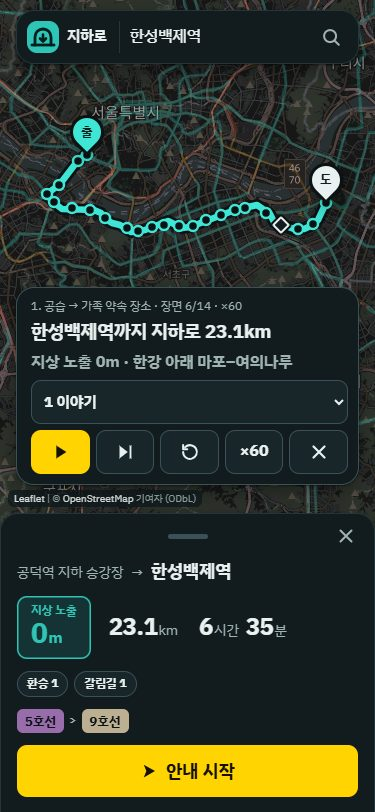
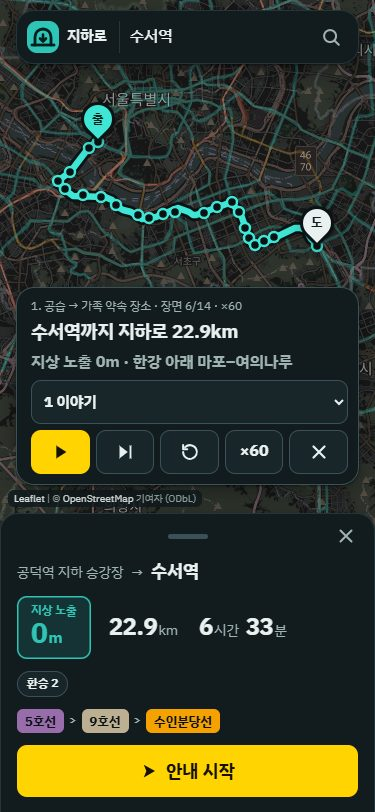
시연 목적지를 수서로: 막힌 뒤 26.7km, 갈림길 장면 대신 광나루–천호 하저터널 걷기

diff --git a/web/js/demo.js b/web/js/demo.js
@@ -2,17 +2,18 @@
    여는 법: 정보 탭의 '발표용 재생 시작' · 주소 끝 #demo (1번부터) · #demo2 · #demo3 (그 시나리오부터) · UG.demo.open(번호).
    시나리오 (장면마다 자막 한 줄):
      1. 한 사람의 이야기(공습 → 가족 약속 장소, 사용자 결정 2026-11-11):
-        평소에 한성백제역을 '가족 약속 장소'로 저장 → 공덕오거리 부근 거리에서 공습경보 → '가장 가까운 지하로'(공덕역 2번 출구, 지상 138m)
+        평소에 수서역을 '가족 약속 장소'로 저장 → 공덕오거리 부근 거리에서 공습경보 → '가장 가까운 지하로'(공덕역 2번 출구, 지상 138m)
         → 5호선 승강장에 도착해 '가족 약속 장소까지 지하로' → 한강 아래 5호선 마포–여의나루 터널에서 '앞이 막힘'
-        → 마포역으로 되돌아가 한강 아래 다른 하나(5호선 광나루–천호)로 다시 찾기 → 강동 지나 갈림길(오른쪽 갈래 = 마천지선, '통과') → 도착
+        → 마포역으로 되돌아가 한강 아래 다른 하나(5호선 광나루–천호)로 다시 찾기 → 빨리 감기로 광나루까지 → 광나루–천호 하저터널을 걸어서 건넘
+        → 도착까지 빨리 감기 → 수서역 도착(목적지는 사용자 결정 2026-11-11: 한성백제에서 수서로)
      2. 지방 도시: 부산역 → 해운대 18.5km, 전 구간 지하(지상 노출 0m), 연산·수영에서 환승 2번(빨리 감기)
      3. 장거리 피난의 한계: 서울역 → 부산역, 지상 노출 구간을 빨갛게 칠하며 빠르게 따라가기
    조작: 아래 칸(시나리오 · 재생/멈춤 · 다음 장면 · 처음부터 · 속도 · 끝내기), 키보드 Space · → · 1~3 · Esc.
    동작 원리
      - 앱의 공개 객체(UG.app, UG.guide, UG.reach, UG.layers, UG.panel, UG.saved)만 쓴다.
-       지도 따라가기는 앱 길 안내와 같은 함수(UG.app.keepCentered: 지금 위치를 보이는 곳 가운데 20% 안에)를 쓴다.
+       지도는 장면마다 한 번 부드럽게 옮기고(fitView), 부산 시나리오만 앱 길 안내와 같은 따라가기(UG.app.keepCentered)를 쓴다.
      - 길 안내의 추정 위치 = 마지막 확인 지점 + (지금 - since) × 걷는 속도. 시연은 since 를 당겨 놓아
-       빨리 걸은 것처럼 만들고, 다음 확인 지점에 닿으면 큰 단추('도착'·'환승 완료'·'통과')를 실제로 누른다.
+       빨리 걸은 것처럼 만들고, 다음 확인 지점에 닿으면 큰 단추('도착'·'환승 완료')를 실제로 누른다.
      - GPS 와 인터넷을 쓰지 않는다: 시연 동안 위치 기능을 숨기고, 지상 도보 길 찾기(walk.js)를 꺼서 직선을 쓴다.
      - 저장한 장소는 시연 동안 메모리에만 둔다(saved.js useMemory): 보는 사람이 저장해 둔 장소는 건드리지 않는다.
      - 시간은 시연 시계(멈춤·건너뛰기)로 흐른다. 속도 ×30/×60/×120 = 실제 걷는 시간보다 몇 배 빠른지.
@@ -28,24 +29,26 @@
   const CONF = {
     // 1. 이야기: 공습경보가 울린 곳(공덕오거리 부근 거리. 가장 가까운 출구가 5호선 승강장으로 이어지는 공덕역 2번 출구가 되는 자리),
     //    가족 약속 장소(meet), 마포 지나 하저터널 blockFrac 지점에서 막힘. 빨리 감기는 멈출 곳까지 한 화면에 담고 점만 움직인다
-    story: { lat: 37.5447, lon: 126.9497, label: '공덕오거리 부근', meet: '한성백제@서울', blockAfter: '마포@서울', blockFrac: 0.45 },
+    story: { lat: 37.5447, lon: 126.9497, label: '공덕오거리 부근', meet: '수서@서울', blockAfter: '마포@서울', blockFrac: 0.45 },
     busan: { from: '부산역@부산', to: '해운대@부산', label: '부산역 → 해운대', zoom: 14, xferHold: 1600 },  // 2. 지도는 줌 14로 따라감, 환승에서 잠깐 멈춤
     far: { from: '서울역@서울', to: '부산역@부산', flySec: 24 },                                 // 3. ×60 일 때 24초 동안 따라가기
-    // 장면별 배속(고른 속도 × 이 값). 1번: enter = 출구로 들어가 승강장까지, move = 터널까지 걷기, ff = 갈림길까지 빨리 감기,
-    // fork = 갈림길 앞, arrive = 도착까지. 부산은 ×60 이면 걷기 약 20초
-    boost: { enter: 0.6, move: 2.3, ff: 30, fork: 1.5, arrive: 9, busan: 16 },
+    // 장면별 배속(고른 속도 × 이 값). 1번: enter = 출구로 들어가 승강장까지, move = 첫 하저터널까지 걷기, ff = 다른 하저터널 앞까지 빨리 감기,
+    // cross = 다른 하저터널(광나루–천호 1.9km) 걷기, arrive = 도착까지 빨리 감기. 부산은 ×60 이면 걷기 약 20초
+    boost: { enter: 0.6, move: 2.3, ff: 30, cross: 5, arrive: 20, busan: 16 },
     speedKmh: 3.5                                                                               // 시연 중 걷는 속도(앱 기본값)
   };
   const SPEEDS = [30, 60, 120];
 
-  // 경로가 지나는 첫 한강 하저터널(presets.han_crossings 의 터널): { e, line, a, b(지나는 순서의 역 이름) } 또는 null
+  // 경로가 지나는 첫 한강 하저터널(presets.han_crossings 의 터널): { e, line, a, b(지나는 순서의 역 이름), sa, sb(그 역 번호) } 또는 null
   function hanCrossing(G, path) {
     const tun = new Map();
     ((G.g.presets && G.g.presets.han_crossings) || []).forEach(function (x) { if (x.s === 'tunnel') tun.set(x.e, x); });
-    const name = function (v) { const s = G.nodeStation[v]; return s >= 0 ? G.g.stations[s].name : ''; };
+    const name = function (si) { return si >= 0 ? G.g.stations[si].name : ''; };
     for (let i = 0; i < path.length; i++) {
       const x = tun.get(path[i].e);
-      if (x) return { e: x.e, line: (x.lines || [])[0] || '', a: name(path[i].u), b: name(path[i].v) };
+      if (!x) continue;
+      const sa = G.nodeStation[path[i].u], sb = G.nodeStation[path[i].v];
+      return { e: x.e, line: (x.lines || [])[0] || '', a: name(sa), b: name(sb), sa: sa, sb: sb };
     }
     return null;
   }
@@ -397,49 +400,6 @@
   // 자막 한 줄은 그대로 두고 아래 작은 줄만 지금 구간으로(빨리 감기)
   function legSub(next, gs) { const t = legText(next, gs); if (t && ui) caption(ui.cap.textContent, t); }
 
-  // 갈림길에서 갈 쪽 말: '오른쪽 갈래로' · '오른쪽 선로로' · '직진 선로로' (guide.js 와 같은 말)
-  function forkGo(side) { return side === '직진' ? '직진 선로로' : side + (/갈래$/.test(side) ? '로' : ' 선로로'); }
-  // 갈림길 그림(앱이 그리는 Y자: 들어오는 선 약 120m, 갈래마다 약 160m, 끝에 이름표)이 다 보이게 맞출 점들
-  function forkPoints(gs, cp) {
-    const s = S(), GR = UG.graph, J = UG.junctions, j = gs.plan.junctions[cp.jn], c = [j.lat, j.lon], pts = [c], ends = [];
-    const add = function (l) { l.forEach(function (q) { pts.push(q); }); };
-    UG.guide.sliceTrack(s.guideTrack, Math.max(0, cp.at - 120), cp.at).forEach(add);
-    const ahead = UG.guide.sliceTrack(s.guideTrack, cp.at, cp.at + 160);
-    ahead.forEach(add);
-    if (ahead.length) { const l = ahead[ahead.length - 1]; ends.push(l[l.length - 1]); }
-    j.alternatives.forEach(function (a) {   // 다른 갈래: 앱처럼 선로를 따라간 처음 160m
-      let line = [];
-      J.followBranch(s.G, j.node, a.edge, null, Object.assign({}, J.DEFAULTS, { walkM: 400 })).steps.forEach(function (x) {
-        const sh = GR.edgeShape(s.g, x[0], x[1]);
-        line = line.length ? line.concat(sh.slice(1)) : sh;
-      });
-      if (line.length < 2) return;
-      const cum = GR.cumulative(line), l = GR.sliceAlong(line, cum, 0, Math.min(160, cum[cum.length - 1]));
-      add(l); ends.push(l[l.length - 1]);
-    });
-    return pts;
-  }
-  // 지도에 그린 갈래 이름표(글자 상자)·갈림길 점·지금 위치가 보이는 곳 가운데에 오게 옮긴다.
-  // 지도 맞추기는 글자 상자 크기를 모르므로 그린 뒤 화면에서 재고, 안 들어가면 한 단계 줄여 다시 잰다(폰은 보이는 곳이 좁다).
-  async function centerFork() {
-    const map = S().map;
-    for (let k = 0; k < 3; k++) {
-      await until(function () { return !map._animatingZoom; });
-      await hold(reduce() ? 50 : 150);                     // 이름표를 그린 뒤에 잰다
-      const els = Array.prototype.filter.call(document.querySelectorAll('.fork-tag, .jn-dot.is-cur, .pos-est'), function (el) { return el.getClientRects().length; });
-      if (!els.length) return;
-      let l = Infinity, t = Infinity, r = -Infinity, b = -Infinity;
-      els.forEach(function (el) { const q = el.getBoundingClientRect(); l = Math.min(l, q.left); t = Math.min(t, q.top); r = Math.max(r, q.right); b = Math.max(b, q.bottom); });
-      const pad = viewPad(), m = map.getContainer().getBoundingClientRect();
-      const box = { l: m.left + pad.paddingTopLeft[0], t: m.top + pad.paddingTopLeft[1], r: m.right - pad.paddingBottomRight[0], b: m.bottom - pad.paddingBottomRight[1] };
-      // 고칠 때도 부드럽게 날아간다(flyTo): 한 단계 줄이기, 또는 가운데로 옮기기
-      if (k < 2 && (r - l > box.r - box.l || b - t > box.b - box.t)) { await flyTo(map.getCenter(), map.getZoom() - 1); continue; }
-      const dx = (l + r - box.l - box.r) / 2, dy = (t + b - box.t - box.b) / 2;
-      if (Math.abs(dx) > 2 || Math.abs(dy) > 2) await flyTo(map.containerPointToLatLng(map.getSize().divideBy(2).add([dx, dy])), map.getZoom());
-      return;
-    }
-  }
-
   /* ---------- 시연 표시(공습 고리, 막힘 표시, 장거리 따라가기 선) ---------- */
   let marks = null;
   function markLayer() {
@@ -530,7 +490,7 @@
         장면 = { cap(자막 한 줄), run(ctx) }. run 안에서 caption() 으로 숫자가 든 자막으로 바꿀 수 있다.
      ========================================================= */
   const SCENARIOS = [
-    /* 1. 한 사람의 이야기: 평소 저장 → 공습경보 → 가장 가까운 지하로 → 가족 약속 장소까지 지하로 → 하저터널 막힘 → 다른 하저터널 → 갈림길 → 도착.
+    /* 1. 한 사람의 이야기: 평소 저장 → 공습경보 → 가장 가까운 지하로 → 가족 약속 장소까지 지하로 → 하저터널 막힘 → 다른 하저터널로 다시 찾기 → 그 하저터널 건너기 → 도착.
           ctx: p(가족 약속 장소까지 처음 경로), blockPos(막힌 곳), p2(다시 찾은 경로) */
     { name: '공습 → 가족 약속 장소', short: '이야기', scenes: [
       { cap: '평소: 가족 약속 장소 저장', run: async function () {
@@ -628,29 +588,24 @@
         const alt = document.querySelector('#guide-alt-slot:not([hidden]) [data-action="alt"]');
         if (alt) { caption('대안: ' + alt.textContent, '누르지 않고 지하 우선 경로로 계속'); await flash(alt, 2200); }
       } },
-      { cap: '빨리 감기 · 갈림길까지', run: async function () {
+      { cap: '빨리 감기', run: async function (ctx) {
+        // 다른 하저터널 앞 역(광나루)까지. 화면은 그 터널 건너편 역(천호)까지 한 번에 담는다
+        const h = ctx.p2 && hanCrossing(S().G, ctx.p2.route.path);
+        if (h) caption('빨리 감기 · ' + PN().yeok(h.a) + '까지');
         await walkGuide({ boost: CONF.boost.ff, camera: 'fixed', fast: true, onLeg: legSub,
-          until: function (next) { return next.kind === 'junction' && next.jn != null; } });
+          until: function (next) { return !!h && next.si === h.sb; } });
       } },
-      { cap: '갈림길 · 갈 갈래로', run: async function () {
+      { cap: '한강 아래 하저터널', run: async function (ctx) {
+        // 다른 하저터널을 걸어서 건넌다(첫 하저터널 장면과 같은 모습: 그 구간을 한 화면에 담고 점만 움직임)
         const g = guideView(), gs = g && g.state();
         if (!gs) return;
-        const p = UG.guide.progress(gs.cps, gs.cur, gs.plan.view.total_m), cp = p.next;
-        if (!cp || cp.kind !== 'junction' || cp.jn == null) return;
-        const j = gs.plan.junctions[cp.jn], a = j.alternatives[0], toward = function (b) { return b.toward ? b.toward + ' 방면' : b.name; };
-        caption('갈림길 · ' + forkGo(j.chosen.side), toward(j.chosen) + (a ? ' · ' + a.side + (/갈래$/.test(a.side) ? '는 ' : '은 ') + toward(a) : ''));
-        S().guideFollow = false;
-        // 1) 지금 위치와 갈림길이 한 화면에 보이게 날아가 걷다가, 2) 갈림길 약 60m 앞에서 Y자 갈래(이름표 포함)를 크게 보며 마저 걷는다
-        const pos = S().guidePos, near = Math.max(0, p.toNext_m - 60);
-        await fitView((pos ? [pos] : []).concat([[j.lat, j.lon]]), 17);
-        await walk(near, CONF.boost.fork, setWalked);
-        setWalked(near, true);
-        await fitView(forkPoints(gs, cp), 18);
-        await centerFork();
-        await walk(p.toNext_m - near, CONF.boost.fork, function (m) { setWalked(near + m); });
+        const h = ctx.p2 && hanCrossing(S().G, ctx.p2.route.path);
+        if (h) caption('한강 아래 하저터널: ' + h.a + ' → ' + h.b);
+        const p = UG.guide.progress(gs.cps, gs.cur, gs.plan.view.total_m);
+        await fitView(legPoints(gs, p), 16);
+        await walk(p.toNext_m, CONF.boost.cross, setWalked);
         setWalked(p.toNext_m, true);
-        await hold(900);                                     // 안내 카드의 큰 Y자와 지도의 갈래 이름표
-        await press('guide-arrive', 1400);                   // 큰 단추 '통과'
+        await press('guide-arrive', 450);
       } },
       { cap: '도착까지 빨리 감기', run: async function () {
         await walkGuide({ boost: CONF.boost.arrive, camera: 'fixed', fast: true, onLeg: legSub });

diff --git a/scripts/check_alt.js b/scripts/check_alt.js
@@ -63,7 +63,7 @@ for (const [a, b, why] of [['부산역@부산', '서면@부산', '이미 짧고 
 }
 
 /* ---------- 앞이 막혀 다시 찾은 경로(시연 1번 이야기와 같은 막기: 공덕역 승강장에서 가족 약속 장소로) ---------- */
-console.log('\n[앞이 막힘 뒤] 공덕 → 한성백제, 5호선 마포–여의나루 하저터널 막힘 (참고)');
+console.log('\n[앞이 막힘 뒤] 공덕 → ' + UG.demo.CONF.story.meet.replace(/@.*/, '') + ', 5호선 마포–여의나루 하저터널 막힘 (참고)');
 {
   const M = UG.demo.CONF.story, from = '공덕@서울', blocked = new Set();
   const p = { from: st(from), to: st(M.meet), route: RT.findRoute(G, st(from), st(M.meet)) };

diff --git a/docs/plan.md b/docs/plan.md
@@ -60,8 +60,9 @@ COM's 해커톤 2026 · 주제: 전쟁 · 혼자 참가 · 제출 마감 2026-11
 - 지상으로 나가는 곳(사용자 결정 2026-11-10): 역 출구뿐 아니라 터널 출입구(선로가 지상으로 나오는 곳), 차량기지, 터널 중간 비상 출구·수직구도 출구 후보로 쓴다. 전시에는 막히면 뚫고 간다고 보고 출입 통제는 따지지 않는다. 안내 중 "여기서 나가기"로 가까운 출구 후보를 보여 준다.
 - 출발·도착 연결(사용자 결정 2026-11-11): 역 출구뿐 아니라 터널 출입구와 차량기지도 출발·도착 연결 후보로 쓴다. '가장 가까운 지하로'는 역만 쓴다.
 - 대안 카드(사용자 결정 2026-11-11): 기본 경로는 지하 우선. 지상을 조금 허용한 경로(지상 1m = 지하 약 15m)가 시간 20% 이상 또는 30분 이상 빠르고 추가 지상 거리가 2km 이하일 때만 "지상 700m 걸으면 14km 짧아요" 한 줄을 보여 주고, 누르면 그 경로로 바꾼다. 지도에는 고르지 않은 경로를 흐린 선으로 보여 준다.
-- 시연 도구(사용자 결정 2026-11-11): `#demo` 또는 정보 탭에서 여는 재생 모드. 시나리오 3개(`#demo`·`#demo2`·`#demo3`, 키보드 1~3): ① 한 사람의 이야기: 평소 한성백제역을 '가족 약속 장소'로 저장 → 공덕오거리 부근 공습경보 → 가장 가까운 지하로(공덕역 2번 출구, 지상 138m, 5호선 승강장) → 가족 약속 장소까지 지하로 23.1km·지상 노출 0m → 한강 하저터널(5호선 마포–여의나루) 막힘 → 마포역으로 834m 되돌아가 한강 아래 다른 하나(광나루–천호)로 재탐색 23.8km·지상 노출 0m → 강동 지나 갈림길(오른쪽 갈래 마천지선, 둔촌동 방면) '통과' → 도착(지하에 들어간 뒤 지상 노출 0m). 장면 14개, ×60에서 약 92~95초. 화면 전환(2026-11-11 사용자 지적 '매끄럽지 않음'): 장면마다 지도 움직임은 한 번(flyTo 0.6~1.5초, 앱의 자동 맞추기·따라가기는 시연 동안 쉼), 시트·시연 칸이 자리 잡은 뒤에 지도를 옮김, 추정 위치 점은 프레임마다 옮김, 빨리 감기는 한 화면에 담고 점만 움직임, 시트·안내 카드·자막은 0.2초 흐렸다가 나타남, 움직임 줄이기면 바로 옮김 ② 지방 도시 전 구간 지하(부산역→해운대 18.5km, 연산·수영 환승 2번. 2026-11-11 서면→부산역 5.3km에서 바꿈) ③ 장거리 피난의 한계(서울역→부산역, 지상 노출 최소화). 자막은 장면당 한 줄, GPS·인터넷 없이 동작(배경 지도 타일만 받음). 시연 중 저장한 장소는 메모리에만 둔다.
+- 시연 도구(사용자 결정 2026-11-11): `#demo` 또는 정보 탭에서 여는 재생 모드. 시나리오 3개(`#demo`·`#demo2`·`#demo3`, 키보드 1~3): ① 한 사람의 이야기: 평소 수서역을 '가족 약속 장소'로 저장 → 공덕오거리 부근 공습경보 → 가장 가까운 지하로(공덕역 2번 출구, 지상 138m, 5호선 승강장) → 가족 약속 장소까지 지하로 22.9km·지상 노출 0m → 한강 하저터널(5호선 마포–여의나루) 막힘 → 마포역으로 834m 되돌아가 한강 아래 다른 하나(광나루–천호)로 재탐색 26.7km·지상 노출 0m(마포에서 처음 경로보다 4.4km 더, 5호선 하저터널 두 곳을 다 막으면 지상 721m) → 광나루–천호 하저터널 1.9km를 걸어서 건넘 → 수서역 도착(지하에 들어간 뒤 지상 노출 0m). 장면 14개, ×60에서 약 90~93초. 화면 전환(2026-11-11 사용자 지적 '매끄럽지 않음'): 장면마다 지도 움직임은 한 번(flyTo 0.6~1.5초, 앱의 자동 맞추기·따라가기는 시연 동안 쉼), 시트·시연 칸이 자리 잡은 뒤에 지도를 옮김, 추정 위치 점은 프레임마다 옮김, 빨리 감기는 한 화면에 담고 점만 움직임, 시트·안내 카드·자막은 0.2초 흐렸다가 나타남, 움직임 줄이기면 바로 옮김 ② 지방 도시 전 구간 지하(부산역→해운대 18.5km, 연산·수영 환승 2번. 2026-11-11 서면→부산역 5.3km에서 바꿈) ③ 장거리 피난의 한계(서울역→부산역, 지상 노출 최소화). 자막은 장면당 한 줄, GPS·인터넷 없이 동작(배경 지도 타일만 받음). 시연 중 저장한 장소는 메모리에만 둔다.
 - 시연 연출(사용자 결정 2026-11-11): 한 사람의 이야기 하나로 묶는다. 기능을 하나씩 보여 주던 시나리오 ①(시청 앞 공습 → 4시간 도달 범위)과 ②(공덕→한성백제 막힘)를 합쳐 공습경보부터 가족 약속 장소 도착까지 한 흐름으로 재생하고, 한강을 지하로만 건너는 곳이 5호선 하저터널 두 곳뿐이라는 분석 결과를 막힘 → 다른 하나로 다시 찾기 장면에서 보여 준다. 4시간 도달 범위 장면은 뺐다.
+- 시연 목적지 수서로(사용자 결정 2026-11-11): 한성백제는 낯설고 막힌 뒤 거리 차이가 작음(23.1km → 23.8km). 수서(SRT 역)는 처음 22.9km, 막힌 뒤 26.7km(마포에서 4.4km 더). 다시 찾은 길에 갈림길 체크포인트가 없어 갈림길 장면을 빼고, 그 자리에 광나루–천호 하저터널을 걸어서 건너는 장면을 넣었다.
 - 피난처 표시(깊은 지하역 강조, 민방위 대피소, 비상급수시설, 화학 공격 안내 문구)는 넣지 않는다(사용자 결정 2026-11-10).
 - 도로 터널·지하도로와 민방위 대피소는 앱에 넣지 않는다(사용자 결정 2026-11-10). 조사 결과는 발표의 검토한 확장안으로만 쓴다(docs/roads-shelters-check.md).
 - 갈림길 안내(사용자 결정 2026-11-10): 역 사이 선로가 갈라지는 곳을 체크포인트로 넣고 왼쪽·오른쪽·직진과 갈라지는 쪽(다른 노선, 차량기지)을 알려 준다. 건넘선 등 같은 방향으로 이어지는 곳은 안내하지 않는다.

diff --git a/docs/graph-format.md b/docs/graph-format.md
@@ -379,7 +379,7 @@ function decodePolyline(s) {
   - 터널 출입구·차량기지(2026-11-11, `router.egressConns`): `egress.json`(19절)을 받았으면 1.5km 안의 가까운 3곳도 같은 방식으로 잇는다. 터널 출입구는 묶은 출입구 노드(`nodes`) 하나하나, 차량기지는 나가는 곳(`lat`·`lon`)까지 걷고 기지 안을 대표 노드(`node`)까지 더 걷는다(직선 × 1.3, 지상 노출). 어디로 들어갈지는 다른 후보와 같이 비용으로 고른다. 수직구·비상 출구와 '가장 가까운 지하로'에는 쓰지 않는다. 단계 글: '○○ 터널 입구로 들어가기' · '○○ 터널 출입구로 나가기' · '○○차량기지로 들어가기/나가기'(egress 이름). `egress.json`을 아직 안 받았으면 역 출구로 먼저 잇고 받기 시작해, 받은 뒤 경로가 달라지면 다시 찾는다(길 안내 중에는 그대로). `egress.json`을 주지 않으면 예전과 같다(`check_router.js`의 `route.py` 비교).
 - 대안 경로(2026-11-11, `router.alternative`): 기본 탐색(지상 1000)은 그대로 두고, 지상 가중치 `ALT.exposedW` = 15로 한 번 더 찾는다. 다른 경로이고, 걷는 시간이 20% 이상 또는 30분 이상 줄고, 늘어나는 지상 노출이 2km 이하일 때만 결과 카드에 한 줄('지상 1.2km 걸으면 22km 짧아요 · 약 6시간 단축')을 보이고, 누르면 그 경로로 바꾼다(그 뒤에는 '지하 우선 경로로'). 고르지 않은 경로는 지도에 가늘고 옅은 선. 앞이 막혀 다시 찾은 길 안내에서는 첫 확인 지점 전까지 카드에 같은 한 줄이 보이고, 누르면 바꾼 경로로 안내를 이어 간다. 가장 가까운 지하로·여기서 나가기·바로 걷기에는 두지 않는다.
 - 길 안내 따라가기(2026-11-11, `app.keepCentered`): 지금 위치(GPS 또는 추정)가 지도에서 보이는 곳(위 카드·아래 단추를 뺀 곳)의 가운데 칸(가로·세로 20%)을 벗어나면 가운데로 0.6초 동안 옮긴다(움직이는 중이면 그만큼 앞을 겨냥, 움직임 줄이기면 바로). 단계가 바뀌면 지금 위치를 가운데에 두고 다음 확인 지점까지 보이게 맞춘다. 지도를 끌거나 키보드 화살표로 옮기면 멈추고 '현재 위치로'로 다시 따라간다. 시연(`demo.js`)도 같은 함수를 쓴다.
-- 검증(2026-11-11 추가): `node scripts\check_alt.js` — 대안 경로(기본 탐색 그대로, 옥수→압구정 대안 있음, 부산역→서면·서울역→강남·노량진→용산 없음, 시연 1번(이야기) 막힘 뒤 대안 참고). `node scripts\check_connect.js` — 9호선 개화 부근 터널 출입구 옆에서 출발하면 터널 입구로(지상 노출 2,778m → 68m), 도착이면 출입구로 나가기, 방화차량사업소 옆은 기지로(3,123m → 1,455m), 시청 앞은 역 출구 그대로, `egress.json`이 없으면 예전과 같음.
+- 검증(2026-11-11 추가): `node scripts\check_alt.js` — 대안 경로(기본 탐색 그대로, 옥수→압구정 대안 있음, 부산역→서면·서울역→강남·노량진→용산 없음, 시연 1번(이야기, 공덕→수서) 막힘 뒤 대안 참고). `node scripts\check_connect.js` — 9호선 개화 부근 터널 출입구 옆에서 출발하면 터널 입구로(지상 노출 2,778m → 68m), 도착이면 출입구로 나가기, 방화차량사업소 옆은 기지로(3,123m → 1,455m), 시청 앞은 역 출구 그대로, `egress.json`이 없으면 예전과 같음.
 - 지상 걷기 간선(웹에서만): 지하로 갈 길이 없을 때(앞이 막힘, 끊긴 노선)의 대비책. 1.5km 안의 다른 역끼리 가장 가까운 출입구(없으면 허브) 사이를 직선 × 1.3 길이, 구조 `ground`, 종류 `surface`로 잇는다(2026-11-10 그래프에서 1,704개). `graph.json` 간선 뒤에 붙여 원래 간선 번호는 그대로고, 기본 탐색(= `route.py`)에서는 쓰지 않는다. 기본 탐색이 실패할 때만 `findRoute(..., {surface: true})`로 다시 찾고, 안내에는 '지상 걷기' 단계(`type: 'surface'`)로 나온다.
 - 앞이 막힘: 마지막으로 '도착'을 누른 체크포인트와 다음 체크포인트 사이의 선로 간선, 그리고 그 선 모양에서 40m 안에 나란히 있는 선로(같은 터널의 반대 방향)를 막는다. 들어갈·나갈 출구가 막히면 그 출입구 간선만 막는다. 되돌아갈 거리는 마지막 확인 뒤 걸은 시간 × 걷는 속도(다음 체크포인트까지를 넘지 않게)로 추정한다.
 - 승강장 깊이: 역 시트의 '이 역 정보'에서 `stations[].depth`(6.1절, 서울교통공사 1~8호선 역만)를 승강장 줄마다 보여 준다(지하 층이면 층·승강장·선로 깊이, 고가·지상이면 그 글자만). 없는 역은 깊이를 숨긴다.

diff --git a/README.md b/README.md
@@ -46,7 +46,7 @@ COM's 해커톤 2026 · 주제: 전쟁 · 혼자 참가
 
 시연 시나리오:
 
-1. 한 사람의 이야기(기본 속도 ×60에서 약 92~95초, 장면 14개): 평소에 한성백제역을 '가족 약속 장소'로 저장 → 공덕오거리 부근 거리에서 공습경보 → '가장 가까운 지하로'로 공덕역 2번 출구(지상 138m) → 5호선 승강장에서 '가족 약속 장소까지 지하로'(23.1km, 지상 노출 0m) → 한강 아래 5호선 마포–여의나루 터널에서 '앞이 막힘' → 마포역으로 834m 되돌아가 한강 아래 다른 하나(5호선 광나루–천호)로 다시 찾기(23.8km, 지상 노출 0m) → 강동 지나 갈림길(오른쪽 갈래, 둔촌동 방면) '통과' → 도착(지하에 들어간 뒤 지상 노출 0m). 장면 사진: `docs/screens/story-01-save.jpg` ~ `story-14-arrive.jpg`(375×812 어두운 화면)
+1. 한 사람의 이야기(기본 속도 ×60에서 약 90~93초, 장면 14개): 평소에 수서역을 '가족 약속 장소'로 저장 → 공덕오거리 부근 거리에서 공습경보 → '가장 가까운 지하로'로 공덕역 2번 출구(지상 138m) → 5호선 승강장에서 '가족 약속 장소까지 지하로'(22.9km, 지상 노출 0m) → 한강 아래 5호선 마포–여의나루 터널에서 '앞이 막힘' → 마포역으로 834m 되돌아가 한강 아래 다른 하나(5호선 광나루–천호)로 다시 찾기(26.7km, 지상 노출 0m. 마포에서 처음 경로보다 4.4km 더) → 광나루–천호 하저터널(1.9km)을 걸어서 건넘 → 수서역 도착(지하에 들어간 뒤 지상 노출 0m). 장면 사진: `docs/screens/story-01-save.jpg` ~ `story-14-arrive.jpg`(375×812 어두운 화면, 12번은 `story-12-tunnel-b.jpg`)
 2. 부산역에서 해운대까지 18.5km 전 구간 지하, 환승 2번
 3. 장거리 피난의 한계(서울역에서 부산역)
 
@@ -130,7 +130,7 @@ python -I scripts\merge_ways.py data\raw\region_nodes.json,data\raw\region_nodes
 | `node scripts\check_walk.js` | 지상 도보 구간을 실제 길로 바꾸는 계산과 위치 추정 선 |
 | `node scripts\check_pdr.js` | 걸음 세기·보폭 보정을 합성 가속도 신호로 |
 | `node scripts\check_load.js` | 첫 로딩에서 나눠 하는 일이 한 번에 한 것과 같은지 |
-| `node scripts\check_demo.js` | 시연 시나리오 3개가 재생할 경로·단계의 핵심 사실(이야기: 가장 가까운 출구, 하저터널 두 곳, 막힘 뒤 다시 찾기, 갈림길, 도착) |
+| `node scripts\check_demo.js` | 시연 시나리오 3개가 재생할 경로·단계의 핵심 사실(이야기: 가장 가까운 출구, 하저터널 두 곳, 막힘 뒤 다시 찾기, 다른 하저터널 건너기, 도착) |
 | `node scripts\check_offline.js` | 설치 설정(manifest·아이콘), 서비스 워커의 판 표시·저장 목록·요청 종류, 등록 조건 |
 | `python -I scripts\check_extra.py` | 빠른 환승 항목이 실제 경로의 환승과 맞는지 |
 

diff --git a/docs/design.md b/docs/design.md
@@ -93,5 +93,5 @@
 2026-11-10 3차(갈림길, 여기서 나가기, 글 줄이기, 정보 탭): `v3-dark-01`~`06`, `v3-light-01`(375×812), 글 줄이기 전후 `v3-before-*`·`v3-after-*`(서울역 → 강남 단계 목록·환승 카드, 전: 분석 탭). 헤드리스 Chrome(위치 권한 없음 = 추정 위치)으로 찍었다.
 2026-11-11 시연 2차(`demo2-*`): 1280×720·375×812 어두운 화면 시연 장면(`demo2-wide-*`·`demo2-phone-*`: 공습 도달 범위 한 번에, 막힘 뒤 대안 한 줄, 부산역→해운대, 따라가기), 정보 탭 시연 단추(`demo2-info-dark`·`demo2-info-light`, 375×812), 대안 경로 카드(`demo2-alt-card`, 옥수→압구정, 375×812 어두운). 헤드리스 Chrome.
 2026-11-11 4차(첫 로딩, 환승·출구 지하도 그림): `v4-dark-01-first-load`(철도망을 처음 그린 직후, 보이는 곳만), `v4-dark-02-exit-leg`(양재역 6번 출구 근처 → 강남: 출구 지하도 선), `v4-dark-03-xfer-passage`(종각 → 안국, 종로3가 1→3호선 지하도 선), `v4-dark-04-xfer-dashed`(을지로입구 → 종각, 시청 2→1호선: 모양 자료 없음 = 옅은 점선), `v4-dark-05-station-exit`(양재역 시트에서 6번 출구를 누름), `v4-dark-06-guide-xfer`(길 안내의 종로3가 환승). 375×812 어두운 화면, 헤드리스 Chrome, 배경 타일 막음(간이 배경 지도), 위치 권한 없음.
-2026-11-11 시연 이야기(`story-01-save` ~ `story-14-arrive`): 시연 1번(공습경보 → 가족 약속 장소)의 장면마다 한 장. 375×812 어두운 화면, 헤드리스 Chrome, 위치 권한 없음(추정 위치). 발표 자료의 예비 화면용.
+2026-11-11 시연 이야기(`story-01-save` ~ `story-14-arrive`): 시연 1번(공습경보 → 가족 약속 장소 수서역)의 장면마다 한 장. 12번은 `story-12-tunnel-b`(광나루–천호 하저터널 건너기, 목적지를 수서로 바꾸며 갈림길 장면 대신). 375×812 어두운 화면, 헤드리스 Chrome, 위치 권한 없음(추정 위치). 발표 자료의 예비 화면용.
 2026-11-11 오프라인(`offline-*`): `offline-1-info-ready`(첫 방문 뒤 정보 탭 '오프라인 사용 준비됨 · 7.6MB'와 '홈 화면에 추가'), `offline-2-route`(오프라인으로 다시 연 앱: '오프라인' 칩, 저장한 타일, 서울역 → 강남 경로), `offline-3-guide-exit`(오프라인 길 안내에서 여기서 나가기). 375×812 어두운 화면, 헤드리스 Chrome, 위치 권한 없음.
